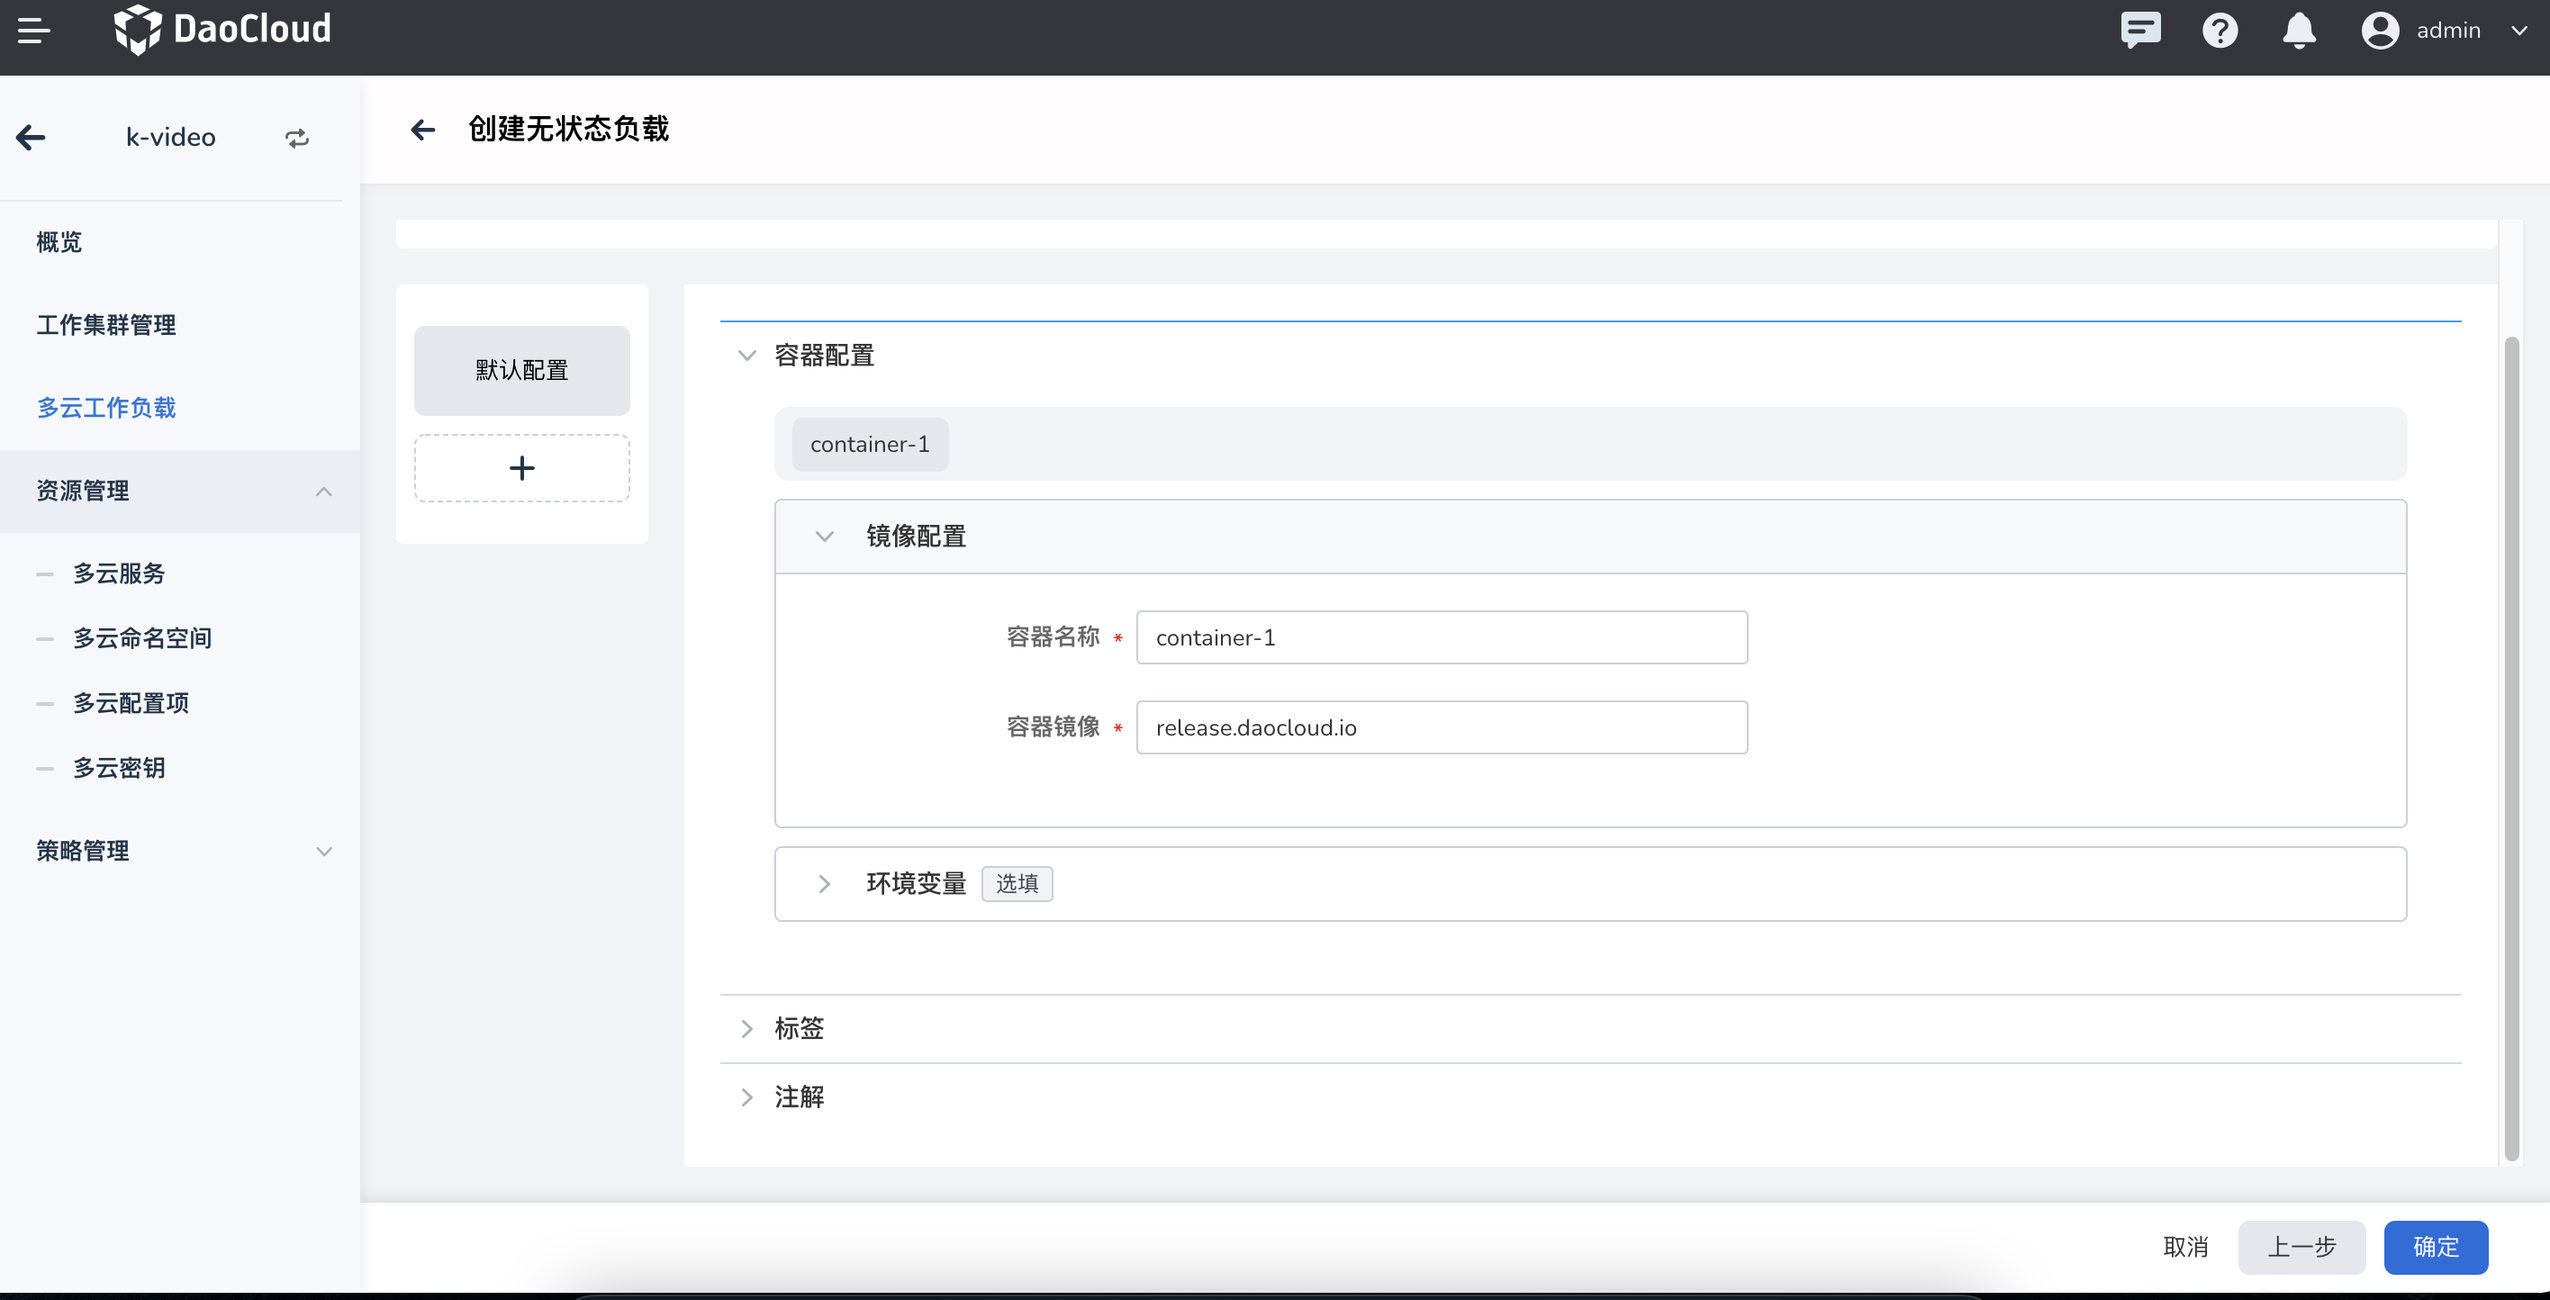
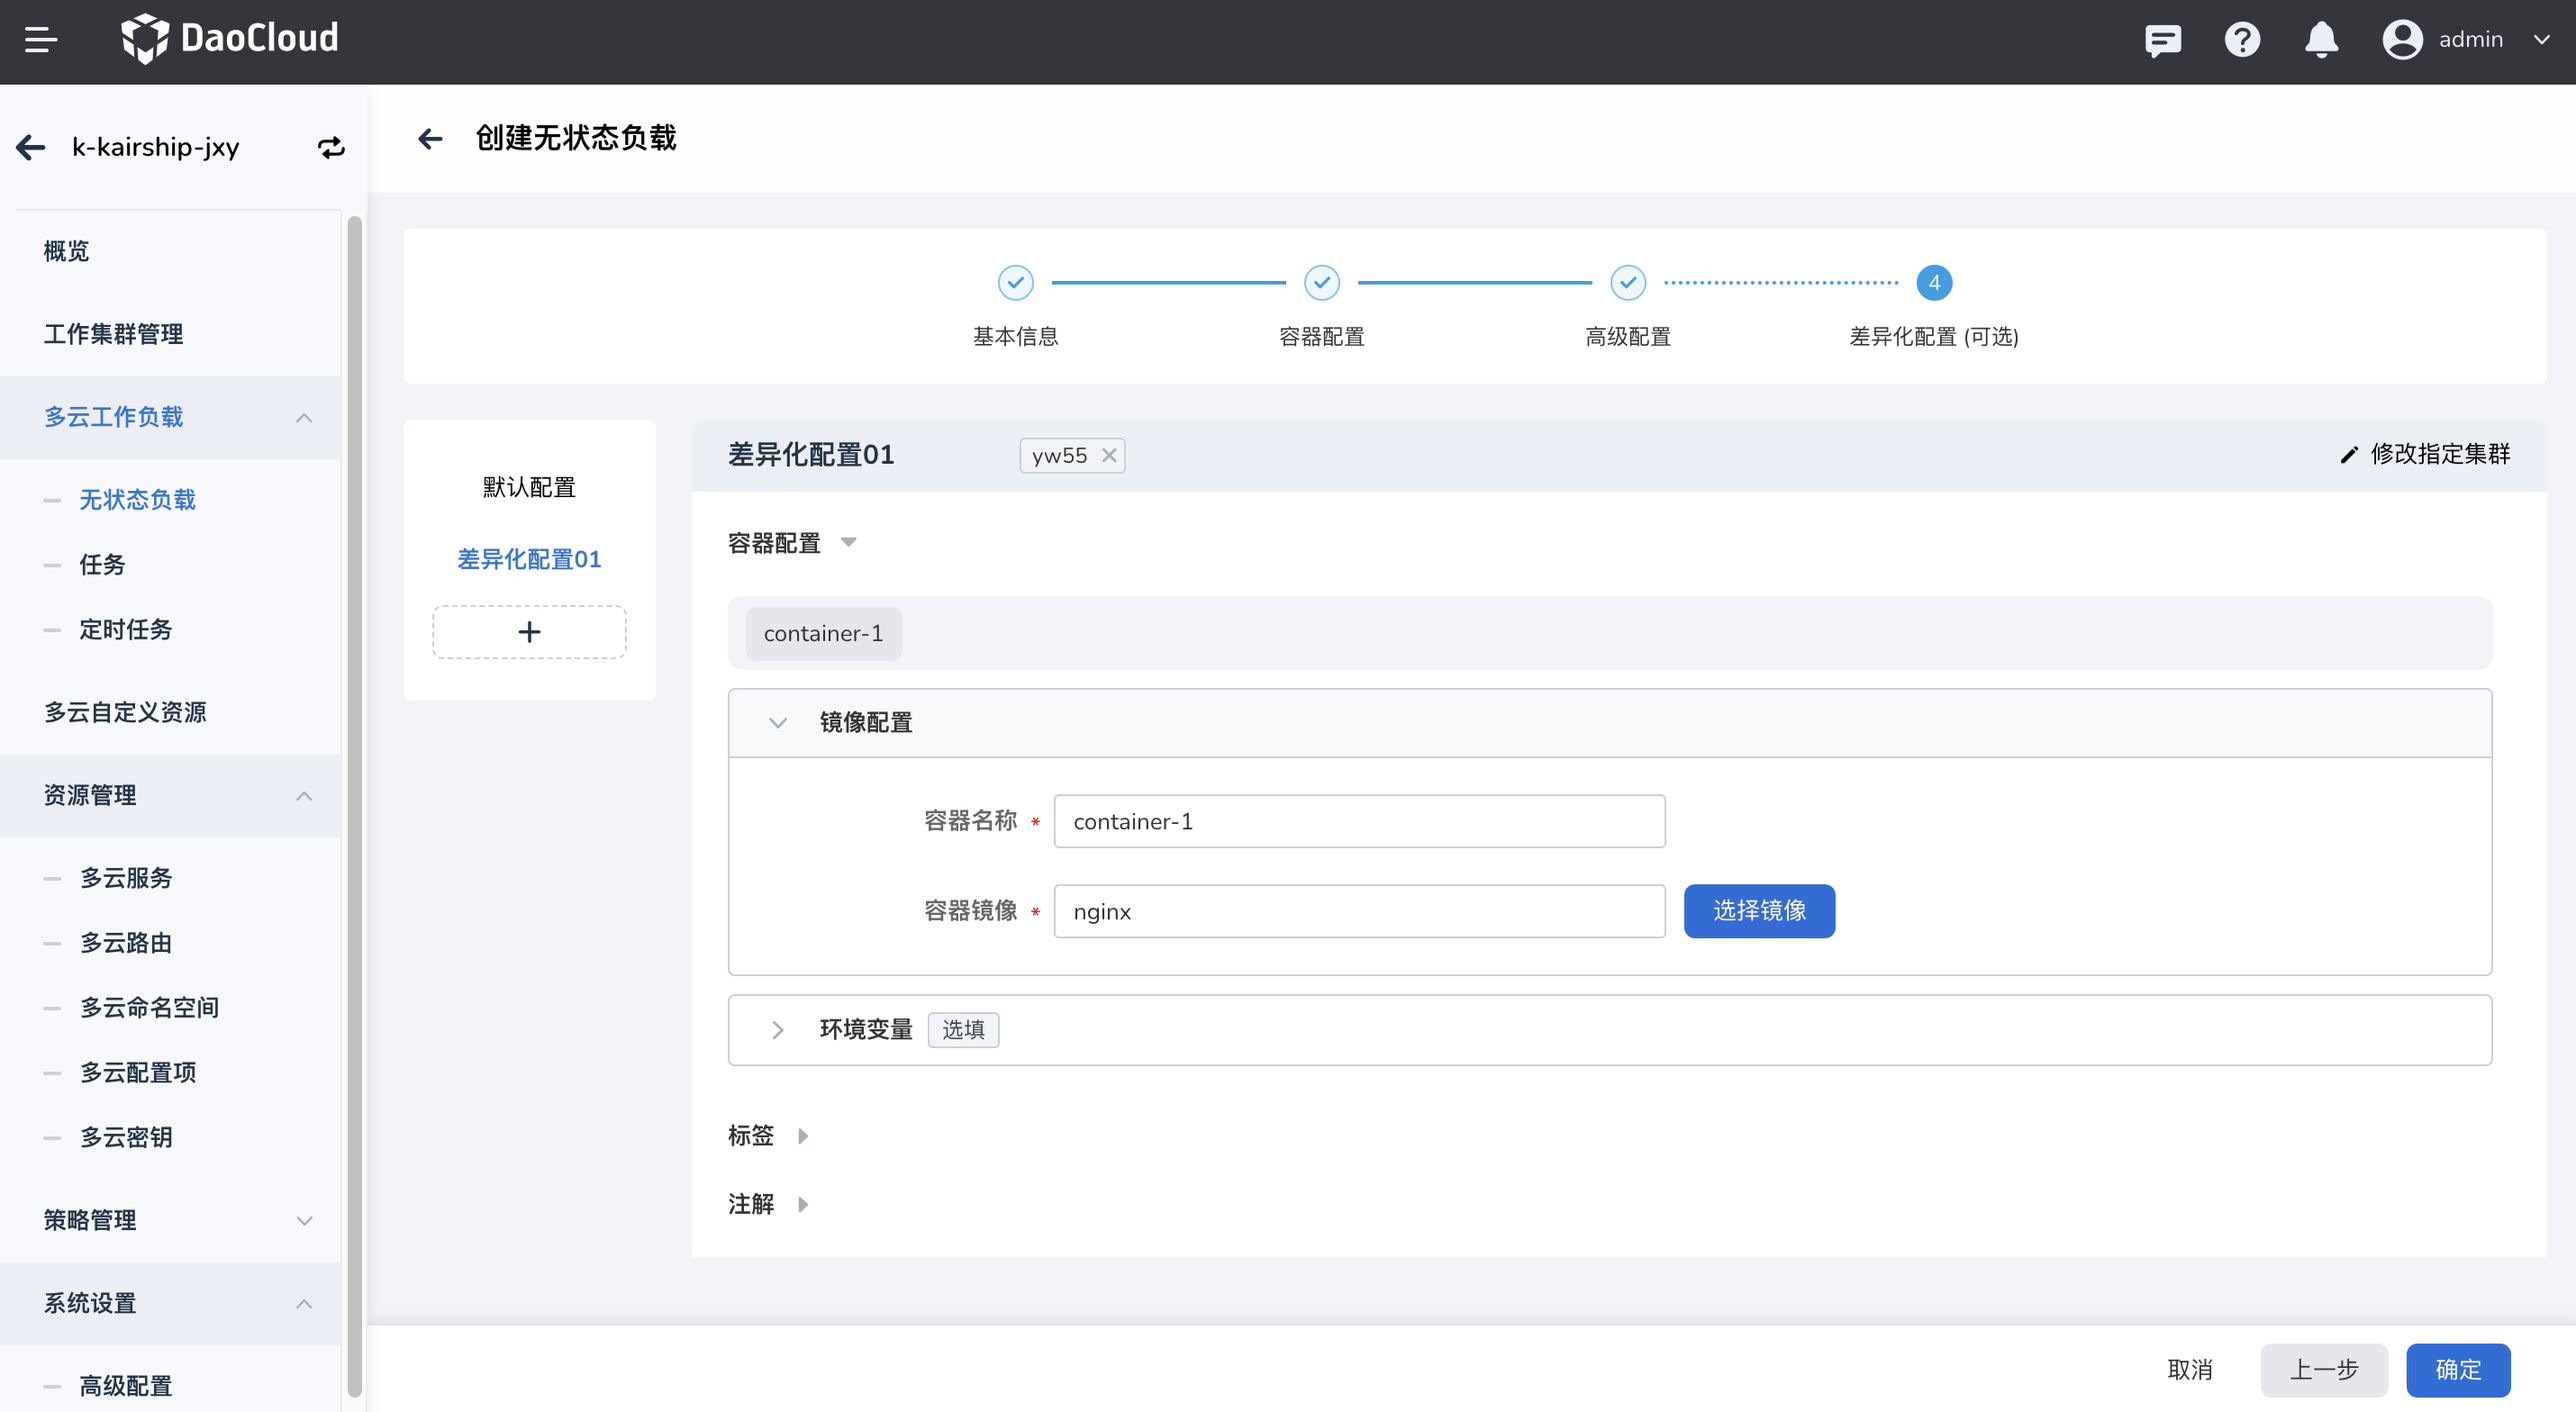
kairship documents

diff --git a/docs/zh/docs/kairship/resource/ingress.md b/docs/zh/docs/kairship/resource/ingress.md
@@ -1,0 +1,65 @@
+---
+hide:
+  - toc
+---
+
+# 多云路由
+
+多云路由是对标准的 Kubernetes Ingress 多云的统一抽象，通过创建一个 Ingress 并与若干多云服务关联，即可同时分发到多个集群内。
+
+目前提供了两种创建方式：表单创建和 YAML 创建。本文以表单创建为例，参照以下步骤操作。
+
+1. 进入某一个多云实例后，在左侧导航栏中，点击`资源管理` -> `多云路由`，点击右上角的`创建`按钮。
+
+    ![路由列表](../images/create-ingress01.png)
+
+2. 在`创建多云路由`页面中，配置部署位置、设置路由规则、Ingress Class、是否开启会话保持等信息后，点击`确定`。填写详情可参考[创建路由](docs/zh/docs/kpanda/user-guide/services-routes/create-ingress.md)
+
+    ![创建多云路由](../images/create-ingress02.png)
+
+3. 新功能尝鲜，支持一键将子集群服务转换为多云路由，点击列表页的`立即体验`，选择指定工作集群和命名空间下的路由，点击确定后可以转换成功。
+
+    ![一键转换](../images/create-ingress03.png)
+
+4. 点击列表右侧的 `⋮`，可以更新和删除该路由。
+
+    ![更新和删除](../images/create-ingress04.png)
+
+    !!! note
+
+        如果一个路由被删除，该服务相关的信息也将消失，请谨慎操作。
+
+## YAML 示例
+
+此处列出一个多云路由的 YAML 示例，您稍加修改就可以使用。
+
+```yaml
+kind: Ingress
+apiVersion: networking.k8s.io/v1
+metadata:
+  name: ingress-test
+  namespace: default
+  uid: 49a45f23-2e5a-4a23-9f21-77418c1b9bbb
+  resourceVersion: '1979660'
+  generation: 1
+  creationTimestamp: '2023-04-27T00:07:43Z'
+  labels:
+    propagationpolicy.karmada.io/name: ingress-ingress-test-ygddx
+    propagationpolicy.karmada.io/namespace: default
+  annotations:
+    shadow.clusterpedia.io/cluster-name: k-kairship-jxy
+spec:
+  rules:
+    - host: testing.daocloud.io
+      http:
+        paths:
+          - path: /
+            pathType: Prefix
+            backend:
+              service:
+                name: test-service
+                port:
+                  number: 123
+status:
+  loadBalancer: {}
+```

diff --git a/docs/zh/docs/kairship/best-pratice/One-click conversion.md b/docs/zh/docs/kairship/best-pratice/One-click conversion.md
@@ -1,0 +1,37 @@
+# 实现 DCE4 到 DCE5 应用的一键转换
+
+本节将以无状态负载 nginx 为例介绍如何通过多云编排界面实现 DCE4 到 DCE5 应用的一键转换，
+
+## 前提条件
+
+- 容器管理模块接入集群厂商为 DaoCloud DCE 的集群，可参考[已接入 Kubernetes 集群](../clusters/integrate-cluster.md)，且能够访问集群的 UI 界面。
+
+- DCE4 集群中工作负载能够正常运行。
+
+## 一键转移
+
+1. 进入`多云实例-工作负载管理`，点击`接入集群`选择将 DCE4 集群接入多云实例。
+
+   ![接入集群](../../kairship/images/conversion01.png)
+
+2. 进入`多云工作负载-无状态负载`，点击立即体验，选中目标应用，将会自动勾选其关联的 service，同时相关联的配置项、密钥也会被同步转换。
+
+   ![一键转移](../../kairship/images/conversion02.png)
+
+   ![同步转换](../../kairship/images/conversion03.png)
+
+3. 转换成功后点击更新，选择目标部署集群，并开启自动传播（将默认自动检测多云工作负载配置中依赖的 ConfigMap 与 Secret 等资源，并实现自动传播）。
+
+   ![更新nginx](../../kairship/images/conversion04.png)
+
+4. 更新 service 的部署策略，选择部署集群。
+
+   ![更新部署策略](../../kairship/images/conversion05.png)
+
+5. 验证多云 nginx 是否运行成功：在两个集群内 Pod 都成功运行，并且可以正常访问。
+
+   ![验证是否成功](../../kairship/images/conversion06.png)
+
+6. DCE4 集群内的工作负载 nginx 不受影响，应用不断服。
+
+   ![不断服](../../kairship/images/conversion07.png)

diff --git a/docs/zh/docs/kairship/workload/deployment.md b/docs/zh/docs/kairship/workload/deployment.md
@@ -34,9 +34,9 @@ hide:
     - 当部署类型为`重复`时，则指在全部覆盖的每个工作集群，均启动对应副本数的实例
     - 当部署类型为`聚合`或`动态权重`时，则指在全部覆盖的工作集群中，一共启动设定的副本数
     
-3. 在`容器配置`页面中，配置负载所在容器的基本信息，可选择配置生命周期、健康检查等信息，然后点击`下一步`。
+3. 在`容器配置`页面中，配置负载所在容器的基本信息，支持选择镜像（包括共有、私有镜像），可选择配置生命周期、健康检查等信息，然后点击`下一步`。
 
-    ![容器配置](../images/deployment03.png)
+    ![基本信息](../images/chooseimage.png)
 
 4. 在`高级配置`页面中，分配配置升级策略、调度策略、标签与注解以及 DNS 后点击`下一步`。
 
@@ -53,7 +53,7 @@ hide:
 
 6. 屏幕出现创建成功提示，您现在可以[创建多云服务](../resource/service.md)了！
 
-    ![创建多云服务](../images/deployment07.png)
+    ![创建多云服务](../images/deployment-service.png)
 
 !!! note
 

diff --git a/docs/zh/docs/kairship/resource/update-secret.md b/docs/zh/docs/kairship/resource/update-secret.md
@@ -2,18 +2,17 @@
 
 目前提供了两种更新方式：编辑 YAML 和表单更新。
 
-1. 进入某一个多云实例后，在左侧导航栏中，点击`资源管理` -> `多云密钥`，点击`···`可以编辑 YAML 或者更新配置项。
+1. 进入某一个多云实例后，在左侧导航栏中，点击`资源管理` -> `多云密钥`，点击`···`可以编辑 YAML 或者更新密钥。
 
-    ![更新密钥](../images/updatesc01.png)
+    ![密钥列表](../images/update-secret01.png)
 
 2. 在`编辑 YAML `弹窗中，修改 YAML 信息，点击确定则更新了密钥。
 
-    ![编辑YAML](../images/updatesc02.png)
+    ![YAML 更新](../images/update-secret02.png)
 
-3. 点击更新，可以通过表单方式更新密钥，负载名称、多云命名空间、密钥的类型都无法更新。
+3. 点击更新，可以通过表单方式更新，名称、多云命名空间、密钥类型无法更新。
 
-    ![表单更新](../images/updatesc03.png)
-   
+    ![表单更新](../images/update-secret03.png)
+
 4. 完成需要修改的内容后点击确定，更新成功。
-
 

diff --git a/docs/zh/docs/kairship/resource/update-service.md b/docs/zh/docs/kairship/resource/update-service.md
@@ -2,15 +2,16 @@
 
 目前提供了两种更新方式：编辑 YAML 和表单更新。
 
-1. 进入某一个多云实例后，在左侧导航栏中，点击`资源管理` -> `多云密钥`，点击`···`可以表单更新服务。
+1. 进入某一个多云实例后，在左侧导航栏中，点击`资源管理` -> `多云服务`，点击`···`可以表单更新服务。
 
-    ![更新密钥](../images/up-service01.png)
+    ![服务列表](../images/update-service01.png)
 
-2. 点击更新，可以通过表单方式更新服务，访问类型、名称、多云命名空间都无法更新。
+2. 在`编辑 YAML `弹窗中，修改 YAML 信息，点击确定则更新了。
 
-    ![表单更新](../images/up-service02.png)
-   
-3. 完成需要修改的内容后点击确定，更新成功。
+    ![YAML 更新](../images/update-service02.png)
 
+3. 点击更新，可以通过表单方式更新服务，访问类型、名称、多云命名空间都无法更新。
 
+    ![表单更新](../images/update-service03.png)
 
+4. 完成需要修改的内容后点击确定，更新成功。

diff --git a/docs/zh/docs/kairship/resource/update-ingress.md b/docs/zh/docs/kairship/resource/update-ingress.md
@@ -1,0 +1,17 @@
+# 更新多云路由
+
+目前提供了两种更新方式：编辑 YAML 和表单更新。
+
+1. 进入某一个多云实例后，在左侧导航栏中，点击`资源管理` -> `多云路由`，点击`···`可以表单更新路由。
+
+   ![路由列表](../images/update-ingress01.png)
+
+2. 在`编辑 YAML `弹窗中，修改 YAML 信息，点击确定则更新了路由。
+
+   ![YAML 更新](../images/update-ingress03.png)
+
+3. 点击更新，可以通过表单方式更新路由，名称、多云命名空间、Ingress Class 的集群无法更新。
+
+   ![表单更新](../images/update-ingress02.png)
+
+4. 完成需要修改的内容后点击确定，更新成功。

diff --git a/docs/zh/docs/kairship/intro/release-notes.md b/docs/zh/docs/kairship/intro/release-notes.md
@@ -2,6 +2,26 @@
 
 本页列出多云编排的 Release Notes，便于您了解各版本的演进路径和特性变化。
 
+## v0.8.0
+
+发布日期：2023-04-27
+
+## 新功能
+
+- **新增** 支持集群调度组
+- **新增** 支持镜像选择器选择
+- **新增** 高级设置，新增定时重新调度
+- **新增** 高级设置，新增集群健康状态阈值设置
+
+## 修复
+
+- **修复** 部署策略选择CR资源类型时，不自动填充kind
+- **修复** 实例删除弹窗，是否同步删除karmada实例提示信息调整
+
+## 移除
+
+- **移除** istio 对 controller-manager 和 proxy 的 sidecar 注入
+
 ## v0.7.3
 
 发布日期：2023-03-29
